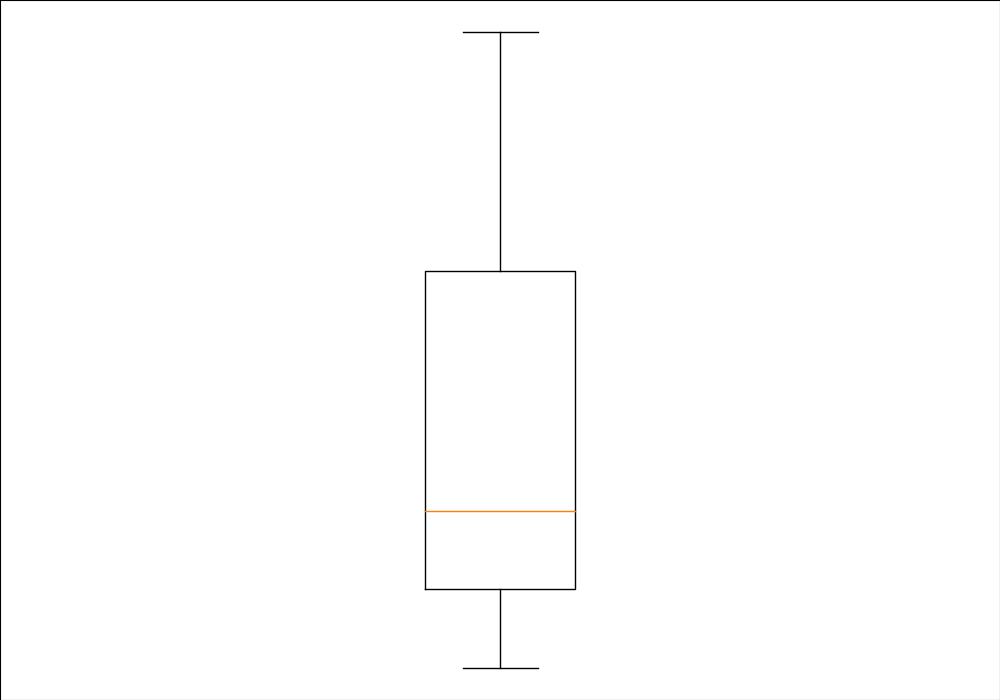
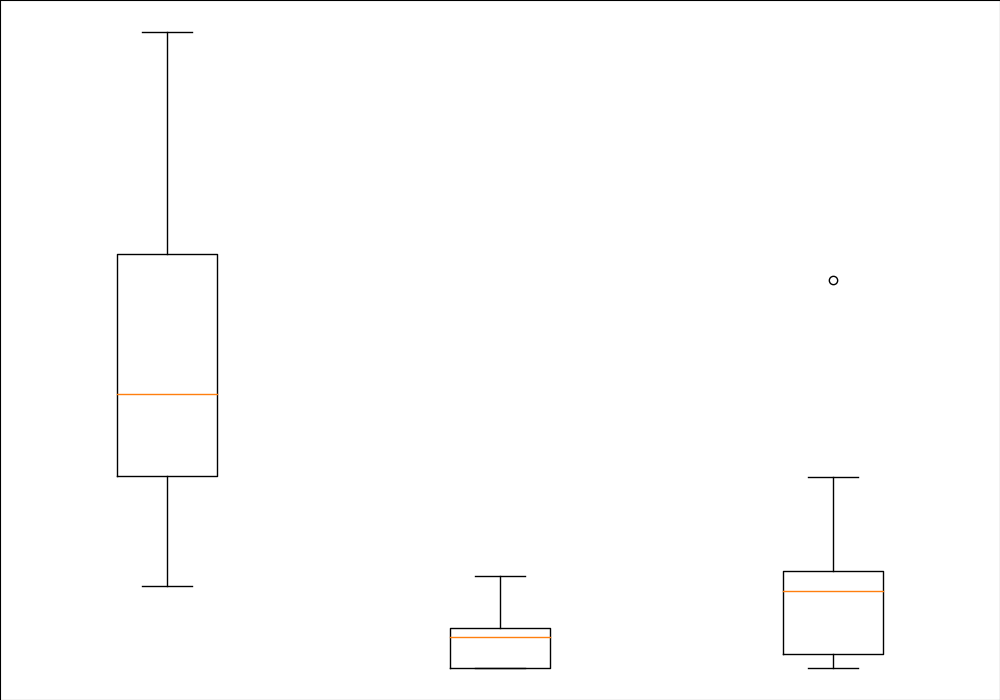
fix: Ajuste na construção do Gráfico

diff --git a/src/main.py b/src/main.py
@@ -80,7 +80,7 @@ def main():
     Algoritmo Híbrido:   {semi_avg:.2f} KM
 """
     write_in_file("output/avg_algol", avg)
-    draw_boxplot([random_avg, greedy_avg, semi_avg])
+    draw_boxplot([distances_random, distances_greedy, distances_semi_greedy])
 
 
 
